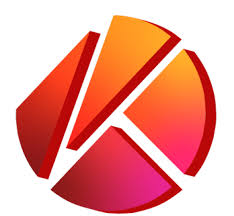
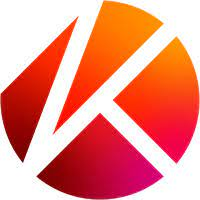
6/8 수정
6/8 수정

diff --git a/frontend/src/components/AllMintPage/AllCardList.js b/frontend/src/components/AllMintPage/AllCardList.js
@@ -1,7 +1,7 @@
 import React, { useState, useEffect } from 'react'
 import { RandomJolamanContract } from '../../caverConfig'
 import './AllCardList.css';
-import klayIcon from '../../images/klaytn-klay-logo.png'
+import klayIcon2 from '../../images/klaytn.jpeg'
 import axios from 'axios';
 
 
@@ -55,7 +55,7 @@ const AllCardList = () => {
                     <p>Price </p>
                     </div>
                     <div className='cardlistprice'>
-                        <img className='klayicon' src={klayIcon}/><p>2.0</p>
+                        <img className='klayicon' src={klayIcon2}/><p>2.0</p>
                     </div>
                 </div>
             </div> 

diff --git a/frontend/src/components/global/Navbar.css b/frontend/src/components/global/Navbar.css
@@ -114,11 +114,15 @@ button:hover {
     .Navbar .rightSide #hidden {
         position: absolute;
         left: 0px;
-        top: 80px;
+        top: 100px;
         height: 400px;
         max-height: 230px;
         width: 100%;
-        background-color:#fad335cf;
+        background-color: var(--color-yellow);
+	    background-image: radial-gradient(var(--color-dark-yellow) 20%, transparent 0), radial-gradient(var(--color-dark-yellow) 20%, transparent 0);
+	    background-size: 20px 20px;
+	    background-position: 0 0, 10px 10px;
+        box-shadow: 4px 4px 4px 4px rgb(132 81 61 / 35%);
         display: flex;
         flex-direction: column;
     }

diff --git a/frontend/src/components/MainPage/MainTitle.css b/frontend/src/components/MainPage/MainTitle.css
@@ -33,7 +33,7 @@
 	perspective: 3em;
 	transform-origin: bottom center;
 	transform-style: preserve-3d;
-	/* animation: movement var(--duration) cubic-bezier(0.65, 0, 0.35, 1) infinite; */
+	animation: movement var(--duration) cubic-bezier(0.65, 0, 0.35, 1) infinite;
 }
 
 .maintitle::after {
@@ -68,7 +68,7 @@
 		);
 	opacity: 0.8;
 	transform: var(--transform);
-	/* animation: shadow var(--duration) cubic-bezier(0.65, 0, 0.35, 1) infinite; */
+	animation: shadow var(--duration) cubic-bezier(0.65, 0, 0.35, 1) infinite;
 }
 
 @keyframes movement {

diff --git a/frontend/src/components/AllMintPage/AllCardList.css b/frontend/src/components/AllMintPage/AllCardList.css
@@ -49,6 +49,7 @@
     /* margin-bottom: 20px; */
     height: 40px;
     /* justify-content: center; */
+    padding-top: 10px;
 }
 
 .cardListContainer .cardtxtContainer .cardtxt .cardlisttitle {
@@ -56,13 +57,13 @@
     display: flex;
     justify-content: center;
     align-items: center;
-    font-size: 15px;
+    font-size: 17px;
 }
 .cardListContainer .cardtxtContainer .cardtxt .cardlistname {
     flex: 50%;
     display: flex;
     align-items: center;
-    font-size: 15px;
+    font-size: 14px;
 }
 
 

diff --git a/frontend/src/components/PreMintingpage/LeftMintingSection.css b/frontend/src/components/PreMintingpage/LeftMintingSection.css
@@ -149,8 +149,8 @@ button {
 }
 
 .mintKlayicon {
-    width: 0.885vw;
-    height: 0.885vw;
+    width: 1.389vw;
+    height: 1.389vw;
     margin-left: 0.26vw;
     margin-right: 0.26vw;
 }
@@ -231,8 +231,8 @@ button {
     
 
     .mintKlayicon {
-        width: 10px;
-        height: 10px;
+        width: 12px;
+        height: 12px;
         margin-left: 2.5px;
         margin-right: 2.5px;
     }

diff --git a/frontend/src/components/PreMintingpage/RightMintingSection.js b/frontend/src/components/PreMintingpage/RightMintingSection.js
@@ -2,7 +2,7 @@ import React from 'react'
 import { useDispatch, useSelector } from 'react-redux';
 import './RightMintingSection.css'
 import { whiteMintingAction } from '../../redux/actions/whiteMintingAction';
-import klayIcon from '../../images/klaytn-klay-logo.png'
+import klayIcon from '../../images/klaytn.png'
 
 const RightMintingSection = () => {
 

diff --git a/frontend/src/components/PreMintingpage/LeftMintingSection.js b/frontend/src/components/PreMintingpage/LeftMintingSection.js
@@ -2,7 +2,7 @@ import React from 'react'
 import './LeftMintingSection.css'
 import { useDispatch, useSelector } from 'react-redux';
 import { preMintingAction } from '../../redux/actions/preMintingAction';
-import klayIcon from '../../images/klaytn-klay-logo.png'
+import klayIcon from '../../images/klaytn.png'
 
 const LeftMintingSection = () => {
 

diff --git a/frontend/src/components/PreMintingpage/MintingModal.css b/frontend/src/components/PreMintingpage/MintingModal.css
@@ -5,7 +5,7 @@
     height: 100%;
     color: white;
     display: flex;
-    justify-content: center;
+    
 }
 
 .modalContainer {

diff --git a/frontend/src/components/MyPage/MyCardList.css b/frontend/src/components/MyPage/MyCardList.css
@@ -69,4 +69,5 @@
 .klayicon {
     width: 20px;
     height: 20px;
+    margin-right: 5px;
 }
